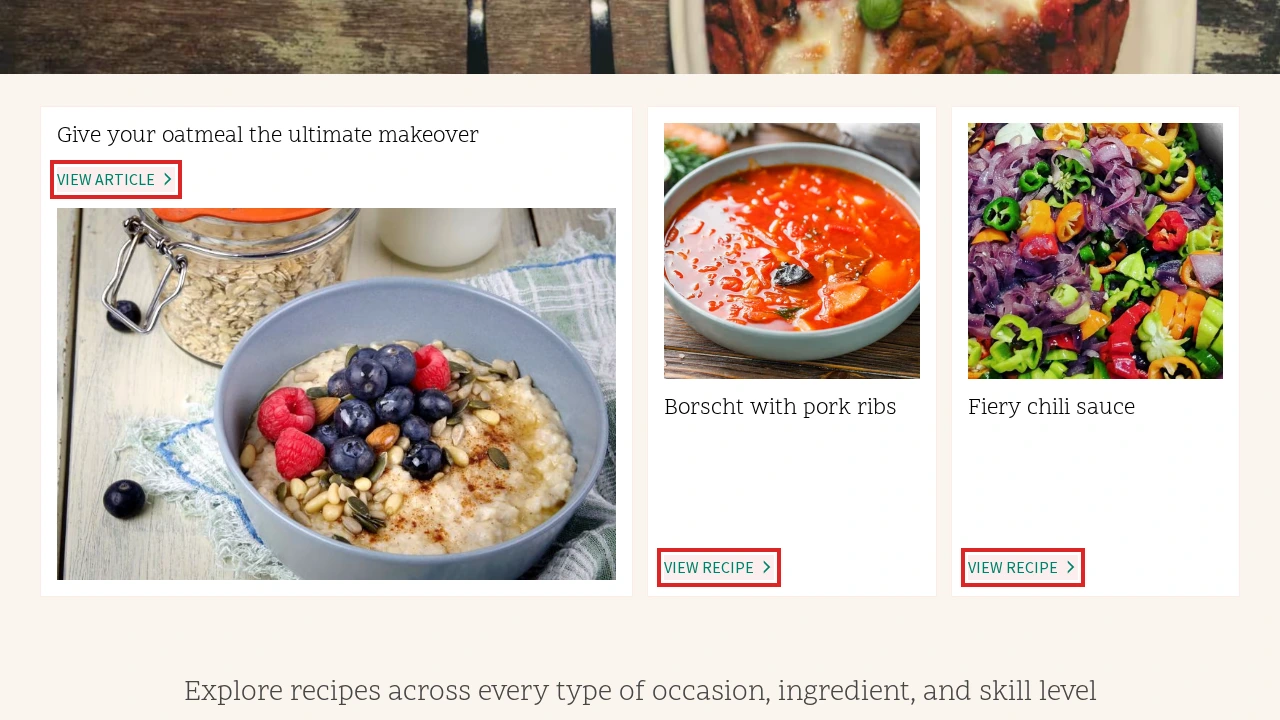
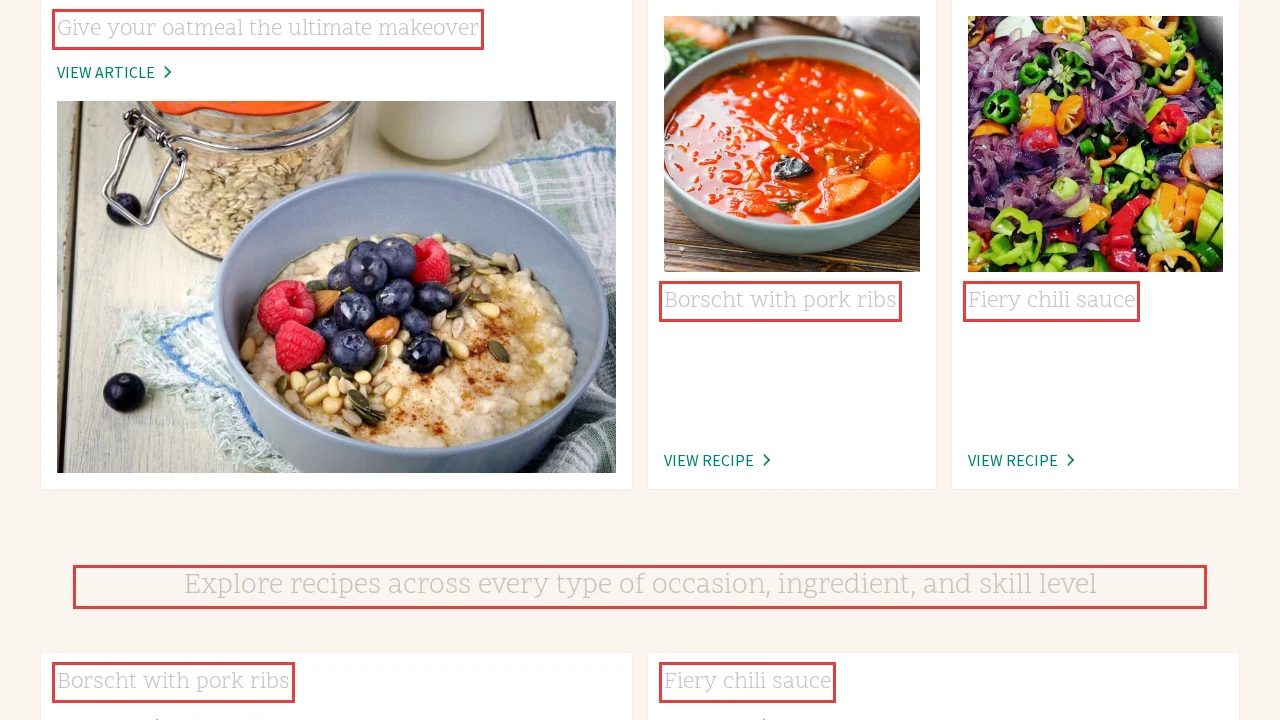
docs: regenerate a11y and visual diff screenshots
Capture both from a real Drupal Umami site. The accessibility shot uses
deliberately low-contrast text so the red outlines are self-explanatory,
and the visual diff shot shows a small, tidy change instead of a
mismatched page. Add captions explaining the red boxes, and update the
home page card copy and image.

Claude-Session: https://claude.ai/code/session_01WX2DCUoHi35mLNurF2C3MP

diff --git a/mkdocs-overrides/home.html b/mkdocs-overrides/home.html
@@ -67,7 +67,7 @@
         </li>
         <li class="mdx-features__item">
           <a class="mdx-features__link" href="{{ 'working-with-tests/visual-comparisons/' | url }}">
-            <img class="mdx-features__image" src="{{ base_url }}/images/visual-diff-mask-overlay.webp" alt="" width="1280" height="720" loading="lazy" draggable="false">
+            <img class="mdx-features__image" src="{{ base_url }}/images/visual-diff-failure.webp" alt="" style="object-position: bottom" width="1280" height="720" loading="lazy" draggable="false">
             <h2 class="mdx-features__title">Visual Comparisons</h2>
             <p>Catch unintended UI changes with screenshot diffs.</p>
           </a>
@@ -76,7 +76,7 @@
           <a class="mdx-features__link" href="{{ 'working-with-tests/accessibility-tests/' | url }}">
             <img class="mdx-features__image" src="{{ base_url }}/images/a11y-violation-screenshot.webp" alt="" width="1280" height="720" loading="lazy" draggable="false">
             <h2 class="mdx-features__title">Accessibility Checks</h2>
-            <p>Generate an accessibility report at every visual comparison.</p>
+            <p>Every screenshot is scanned with axe-core, and failing elements are outlined in red.</p>
           </a>
         </li>
       </ul>

diff --git a/packages/playwright-testing/docs/accessibility.md b/packages/playwright-testing/docs/accessibility.md
@@ -27,7 +27,10 @@ adds an `@a11y` annotation, attaches the complete axe results, and attaches a
 full-page screenshot with WCAG violations outlined in red. Set
 `screenshotViolations: false` to omit that image.
 
-![Full-page Drupal screenshot with each WCAG-violating element outlined in red](../images/a11y-violation-screenshot.webp)
+![Drupal recipe cards with pale grey titles and an intro line, each outlined by a red box marking a color-contrast violation](../images/a11y-violation-screenshot.webp)
+
+Each red box marks an element that failed the WCAG scan. In this example, the
+text color was deliberately lightened to fail the color-contrast rule.
 
 A passing test shows the `@a11y` tag and a scan summary:
 

diff --git a/docs/working-with-tests/visual-comparisons.md b/docs/working-with-tests/visual-comparisons.md
@@ -12,7 +12,7 @@ Drupal axe exclusions, and the legacy browser thresholds.
 
 A failed comparison is reported in the Playwright HTML report:
 
-![Playwright HTML report showing a failed visual comparison with the Diff/Actual/Expected/Side by side/Slider pane selector at the top, image dimensions, and red diff highlighting over the rendered page below](../images/visual-diff-failure.webp)
+![Playwright HTML report Diff view for a failed visual comparison: a faded Drupal home page with red marks only where the navigation underline, hero heading and button changed](../images/visual-diff-failure.webp)
 
 ```typescript
 import { defineVisualDiffConfig } from '@packages/playwright-drupal';

diff --git a/docs/working-with-tests/accessibility-tests.md b/docs/working-with-tests/accessibility-tests.md
@@ -69,7 +69,10 @@ the [canonical accessibility guide](../generic-playwright-utilities/accessibilit
 When WCAG violations are found, the report attaches a full-page screenshot with
 each violating element outlined in red:
 
-![Full-page Drupal screenshot with each WCAG-violating element outlined in red](../images/a11y-violation-screenshot.webp)
+![Drupal recipe cards with pale grey titles and an intro line, each outlined by a red box marking a color-contrast violation](../images/a11y-violation-screenshot.webp)
+
+In this example, the text color was deliberately lightened to fail the
+color-contrast rule.
 
 A passing test shows the `@a11y` tag and a scan summary:
 

diff --git a/packages/playwright-testing/docs/screenshots-and-visual-comparisons.md b/packages/playwright-testing/docs/screenshots-and-visual-comparisons.md
@@ -4,7 +4,7 @@
 `toHaveScreenshot()` matcher, then runs the same accessibility checks described
 in [Accessibility testing](accessibility.md).
 
-![Playwright HTML report showing a failed visual comparison with the Diff/Actual/Expected/Side by side/Slider pane selector at the top, image dimensions, and red diff highlighting over the rendered page below](../images/visual-diff-failure.webp)
+![Playwright HTML report Diff view for a failed visual comparison: a faded Drupal home page with red marks only where the navigation underline, hero heading and button changed](../images/visual-diff-failure.webp)
 
 The helper:
 
